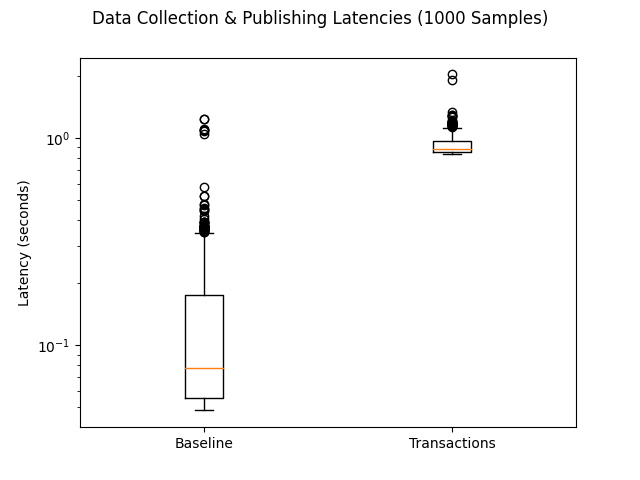
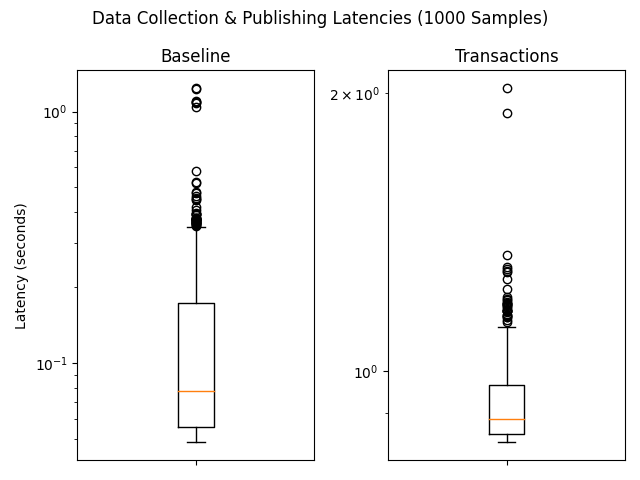
Updated graph images

diff --git a/scripts/analysis/grapher.py b/scripts/analysis/grapher.py
@@ -5,11 +5,11 @@ import numpy as np
 
 from matplotlib import pyplot as plt
 
+OUTPUT_FILE = "..\\output\\Latencies.png"
+
 if (len(sys.argv) != 3):
     print("Insufficient args")
     sys.exit(-1)
-
-labels = ("Baseline", "Transactions")
 
 baseline_path = sys.argv[1]
 transaction_path = sys.argv[2]
@@ -20,31 +20,24 @@ pickled_transaction = open(transaction_path, "rb")
 baseline_data = pickle.load(pickled_baseline)
 transaction_data = pickle.load(pickled_transaction)
 
-# baseline_data = log(baseline_data)
-# transaction_data = log(transaction_data)
-
-data = [baseline_data, transaction_data]
-
 # Plotting figures
-fig = plt.figure()
+fig, axes = plt.subplots(nrows=1, ncols=2)
 fig.suptitle("Data Collection & Publishing Latencies (1000 Samples)")
 
-ax = fig.add_subplot(111)
+axes[0].set_yscale("log")
+axes[0].set_ylabel("Latency (seconds)")
+axes[0].boxplot(baseline_data)
+axes[0].title.set_text("Baseline")
+axes[0].xaxis.set_ticklabels([])
 
-ax.set_yscale("log")
-ax.set_ylabel("Latency (seconds)")
-ax.set_xticklabels(labels)
+axes[1].set_yscale("log")
+# axes[1].set_ylabel("Latency (seconds)")
+axes[1].boxplot(transaction_data)
+axes[1].title.set_text("Transactions")
+axes[1].xaxis.set_ticklabels([])
 
-ax.boxplot(data)
+fig.tight_layout()
+plt.savefig(OUTPUT_FILE)
 
-plt.show()
-
-# plt.yscale("log")
-# plt.figure(figsize=(5, 5))
-# plt.yscale("log")
-# plt.ylabel("Latency (seconds)")
-# plt.xticks(np.arange(len(labels)) + 1, labels)
-
-# plt.boxplot(data)
-# plt.title("Data Collection & Publishing Latencies")
-# plt.show()
+pickled_baseline.close()
+pickled_transaction.close()
